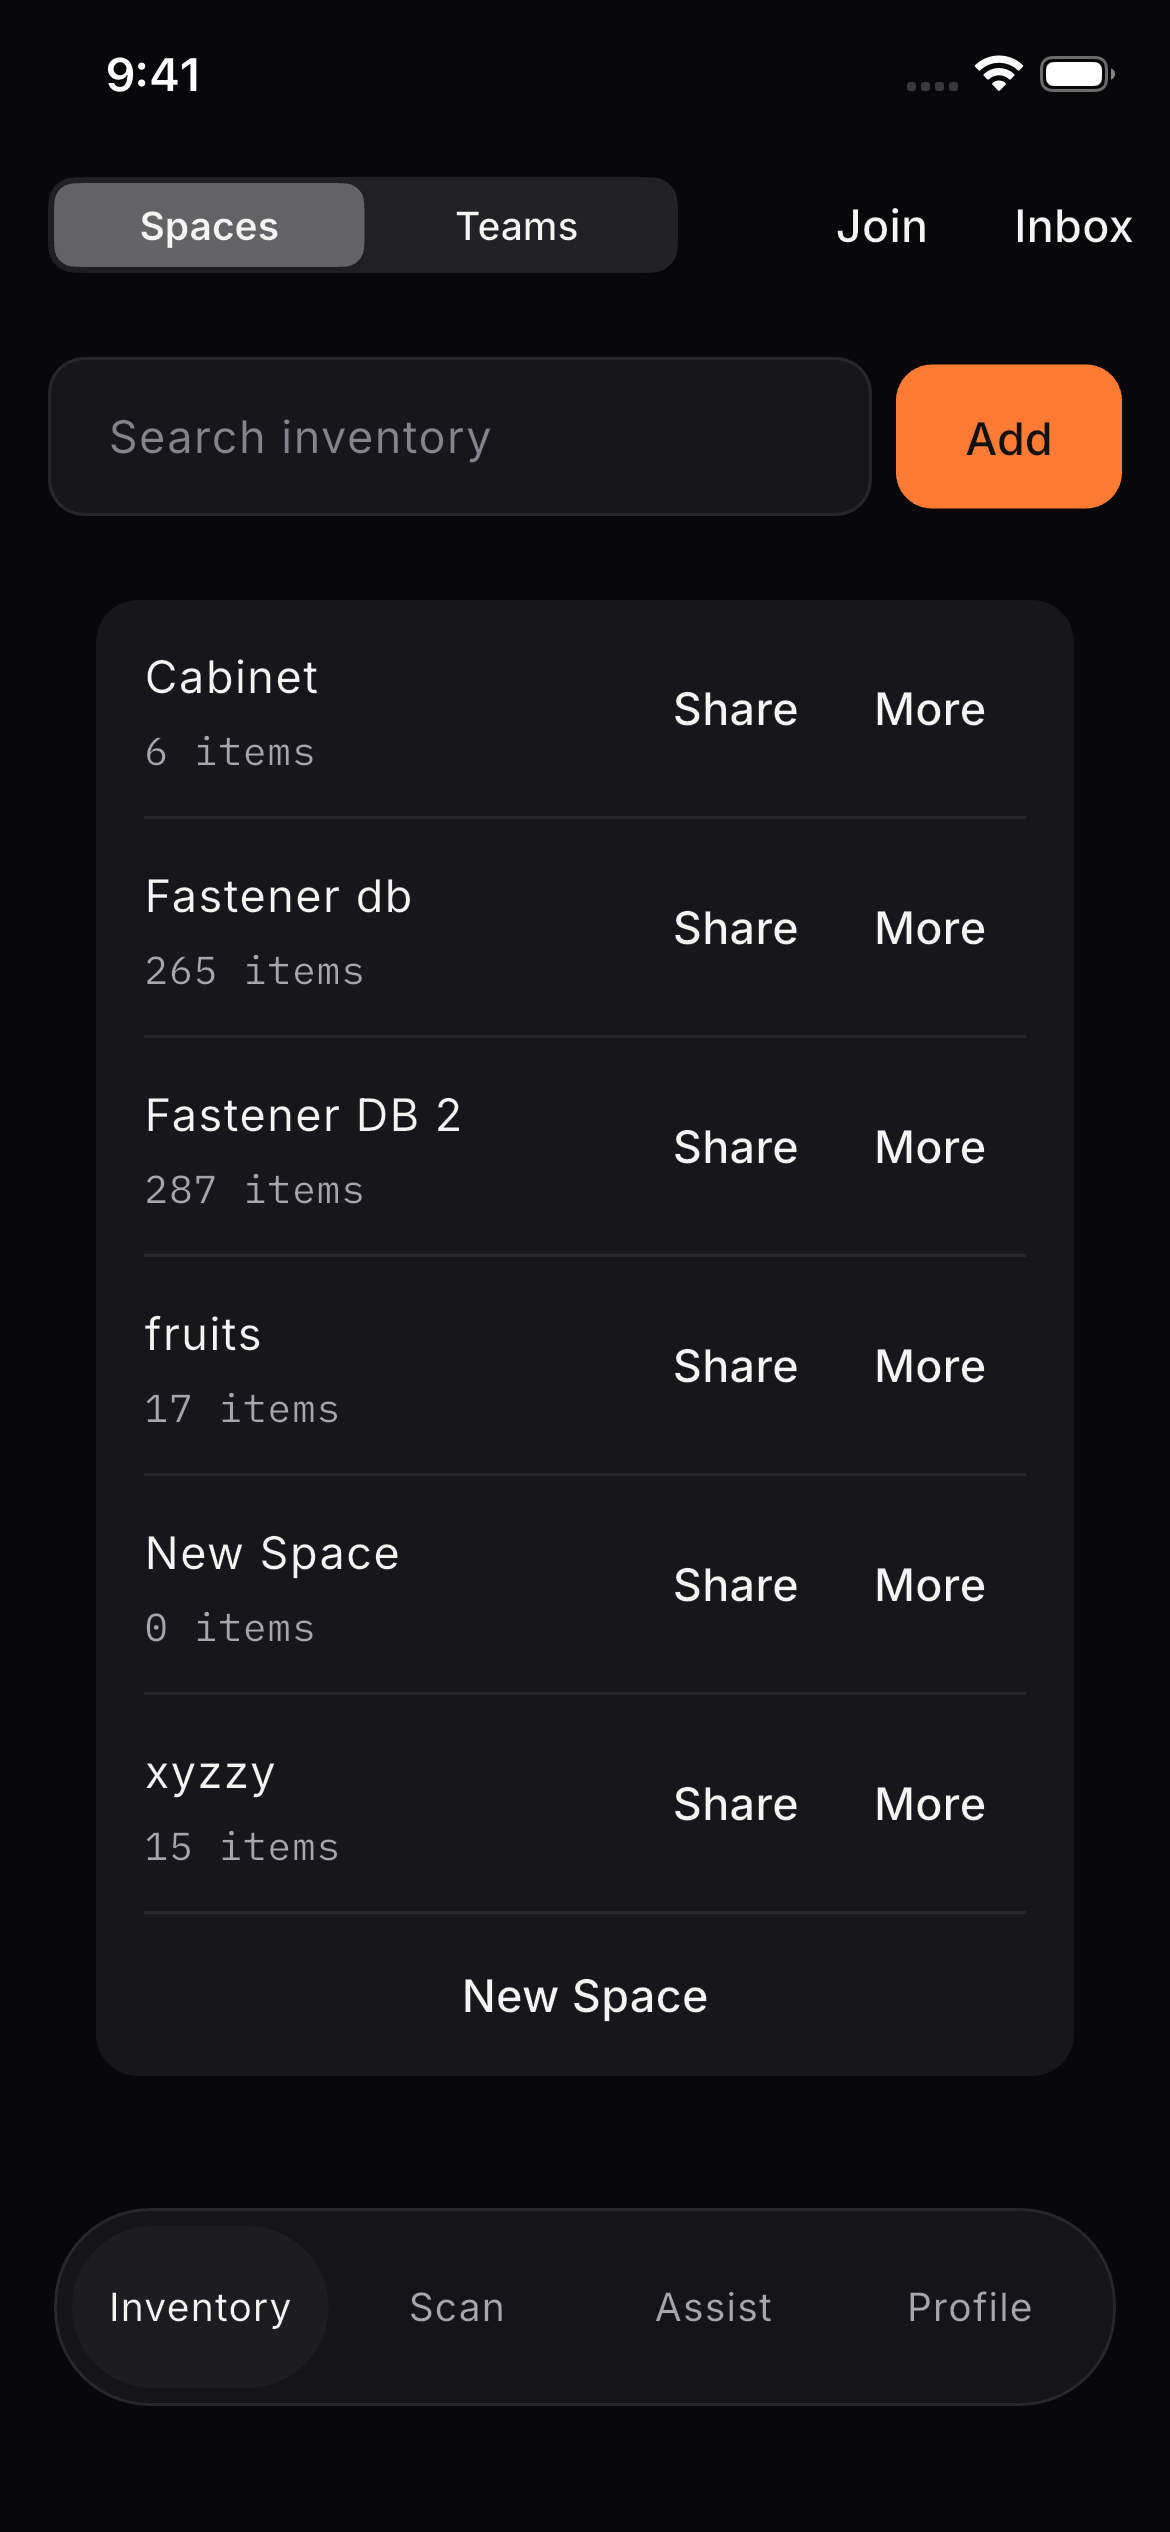
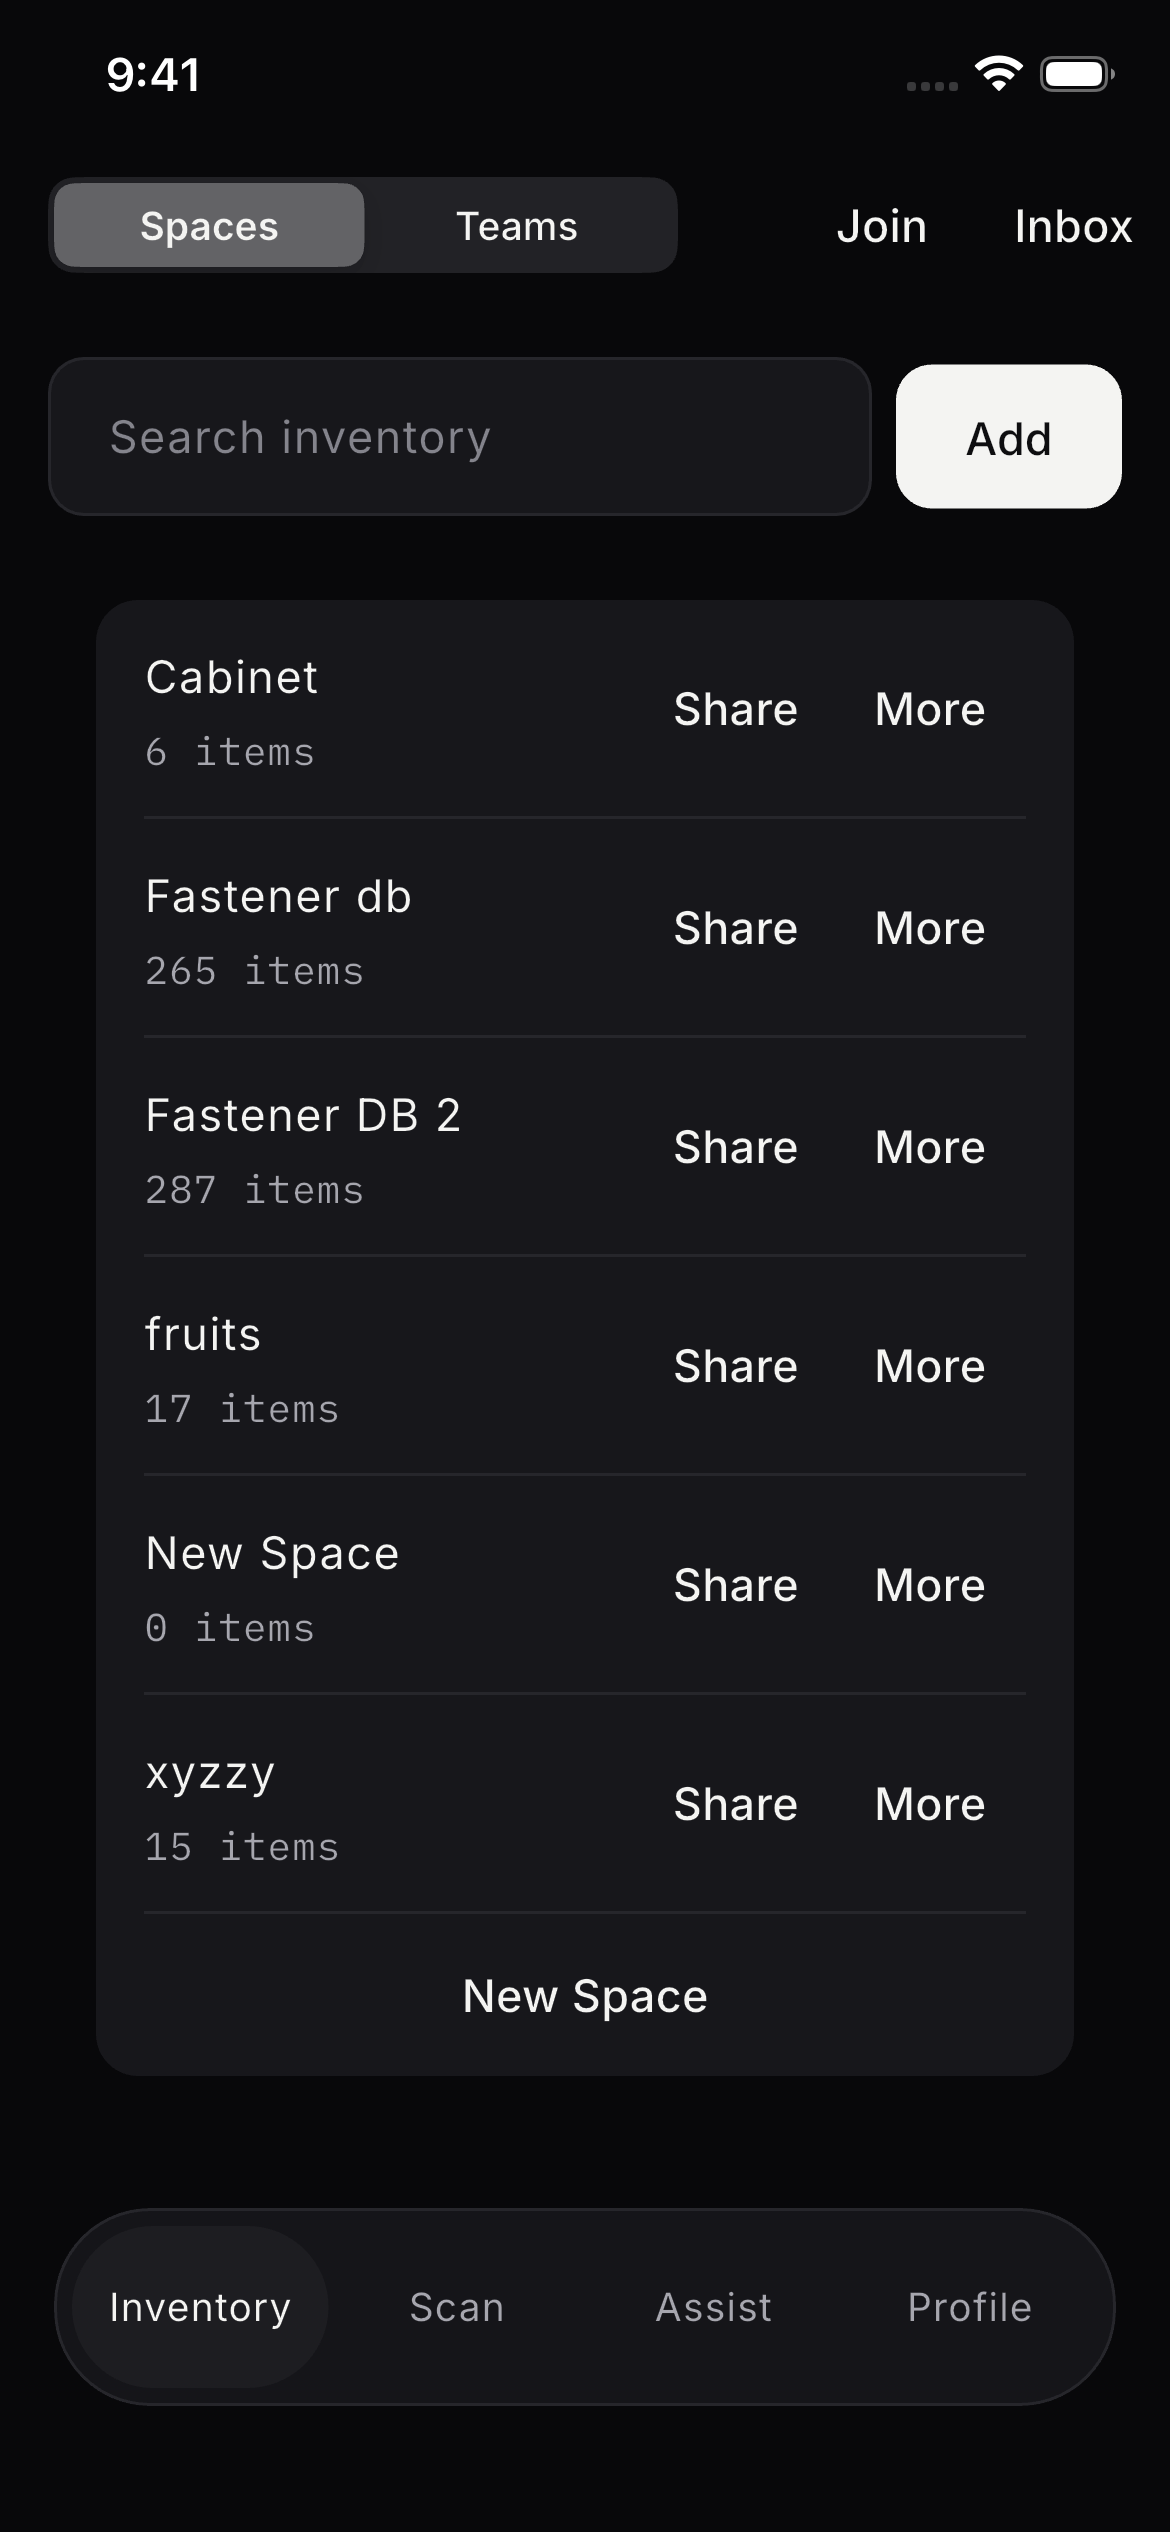
Use ink fills for mobile buttons

Changed region(s): [[0.7385, 0.1248, 0.9846, 0.2184]]

diff --git a/mobile/lib/core/app_theme.dart b/mobile/lib/core/app_theme.dart
@@ -293,10 +293,22 @@ class AppTheme {
       ),
       filledButtonTheme: FilledButtonThemeData(
         style: FilledButton.styleFrom(
-          backgroundColor: t.accent,
-          foregroundColor: t.onAccent,
+          backgroundColor: t.ink,
+          foregroundColor: t.paper,
           minimumSize: const Size(0, AppTokens.buttonHeight),
           textStyle: text.labelLarge,
+          shape: RoundedRectangleBorder(
+            borderRadius: BorderRadius.circular(12),
+          ),
+        ),
+      ),
+      elevatedButtonTheme: ElevatedButtonThemeData(
+        style: ElevatedButton.styleFrom(
+          backgroundColor: t.ink,
+          foregroundColor: t.paper,
+          minimumSize: const Size(0, AppTokens.buttonHeight),
+          textStyle: text.labelLarge,
+          elevation: 0,
           shape: RoundedRectangleBorder(
             borderRadius: BorderRadius.circular(12),
           ),
@@ -338,7 +350,7 @@ class AppTheme {
       ),
       chipTheme: ChipThemeData(
         backgroundColor: t.raised,
-        selectedColor: t.accent,
+        selectedColor: t.s3,
         side: BorderSide(color: t.separator),
         labelStyle: text.bodySmall,
       ),
@@ -349,8 +361,8 @@ class AppTheme {
         indicatorColor: t.accent,
       ),
       floatingActionButtonTheme: FloatingActionButtonThemeData(
-        backgroundColor: t.accent,
-        foregroundColor: t.onAccent,
+        backgroundColor: t.ink,
+        foregroundColor: t.paper,
         elevation: 0,
       ),
     );

diff --git a/mobile/lib/features/auth/auth_page.dart b/mobile/lib/features/auth/auth_page.dart
@@ -1066,11 +1066,12 @@ class _AuthPageState extends State<AuthPage> {
                         ElevatedButton(
                           onPressed: _loading ? null : _submit,
                           style: ElevatedButton.styleFrom(
-                            backgroundColor: AppTokens.of(context).accent,
-                            foregroundColor: AppTokens.of(context).onAccent,
-                            disabledBackgroundColor: AppTokens.of(
+                            backgroundColor: AppTokens.of(context).ink,
+                            foregroundColor: AppTokens.of(context).paper,
+                            disabledBackgroundColor: AppTokens.of(context).s3,
+                            disabledForegroundColor: AppTokens.of(
                               context,
-                            ).accent.withValues(alpha: 0.4),
+                            ).text3,
                             minimumSize: const Size(double.infinity, 50),
                             shape: const RoundedRectangleBorder(
                               borderRadius: BorderRadius.all(

diff --git a/mobile/lib/features/profile/profile_page.dart b/mobile/lib/features/profile/profile_page.dart
@@ -1029,14 +1029,14 @@ class _ProfilePageState extends State<ProfilePage> {
                         width: double.infinity,
                         padding: const EdgeInsets.symmetric(vertical: 13),
                         decoration: BoxDecoration(
-                          color: const Color(0xFFE8590C),
+                          color: AppTokens.of(context).ink,
                           borderRadius: BorderRadius.circular(12),
                         ),
                         child: Text(
                           'Enter join code',
                           textAlign: TextAlign.center,
                           style: TextStyle(
-                            color: AppTokens.of(context).ink,
+                            color: AppTokens.of(context).paper,
                             fontWeight: FontWeight.w700,
                             fontSize: 15,
                           ),

diff --git a/mobile/lib/features/scan/scan_page.dart b/mobile/lib/features/scan/scan_page.dart
@@ -1835,14 +1835,13 @@ class _ScanPageState extends State<ScanPage> {
                       vertical: 10,
                     ),
                     decoration: BoxDecoration(
-                      color: AppTokens.of(context).accent,
+                      color: AppTokens.of(context).ink,
                       borderRadius: BorderRadius.circular(16),
-                      border: Border.all(color: AppTokens.of(context).text3),
                     ),
                     child: Text(
                       _saving ? 'Saving…' : 'Save All',
                       style: TextStyle(
-                        color: AppTokens.of(context).onAccent,
+                        color: AppTokens.of(context).paper,
                         fontSize: 14,
                         fontWeight: FontWeight.w600,
                       ),

diff --git a/mobile/lib/features/showcase/tutorial_controller.dart b/mobile/lib/features/showcase/tutorial_controller.dart
@@ -754,13 +754,13 @@ class _TooltipCard extends StatelessWidget {
                             vertical: 8,
                           ),
                           decoration: BoxDecoration(
-                            color: const Color(0xFFE8590C),
+                            color: tokens.ink,
                             borderRadius: BorderRadius.circular(20),
                           ),
-                          child: const Text(
+                          child: Text(
                             'Got it ✓',
                             style: TextStyle(
-                              color: Colors.white,
+                              color: tokens.paper,
                               fontSize: 13,
                               fontWeight: FontWeight.w500,
                             ),

diff --git a/mobile/lib/core/upgrade_sheet.dart b/mobile/lib/core/upgrade_sheet.dart
@@ -151,14 +151,14 @@ class _LimitSheet extends StatelessWidget {
               width: double.infinity,
               padding: const EdgeInsets.symmetric(vertical: 14),
               decoration: BoxDecoration(
-                color: const Color(0xFFE8590C),
+                color: AppTokens.of(context).ink,
                 borderRadius: BorderRadius.circular(14),
               ),
-              child: const Text(
+              child: Text(
                 'Join a team',
                 textAlign: TextAlign.center,
                 style: TextStyle(
-                  color: Colors.white,
+                  color: AppTokens.of(context).paper,
                   fontWeight: FontWeight.w700,
                   fontSize: 15,
                 ),
